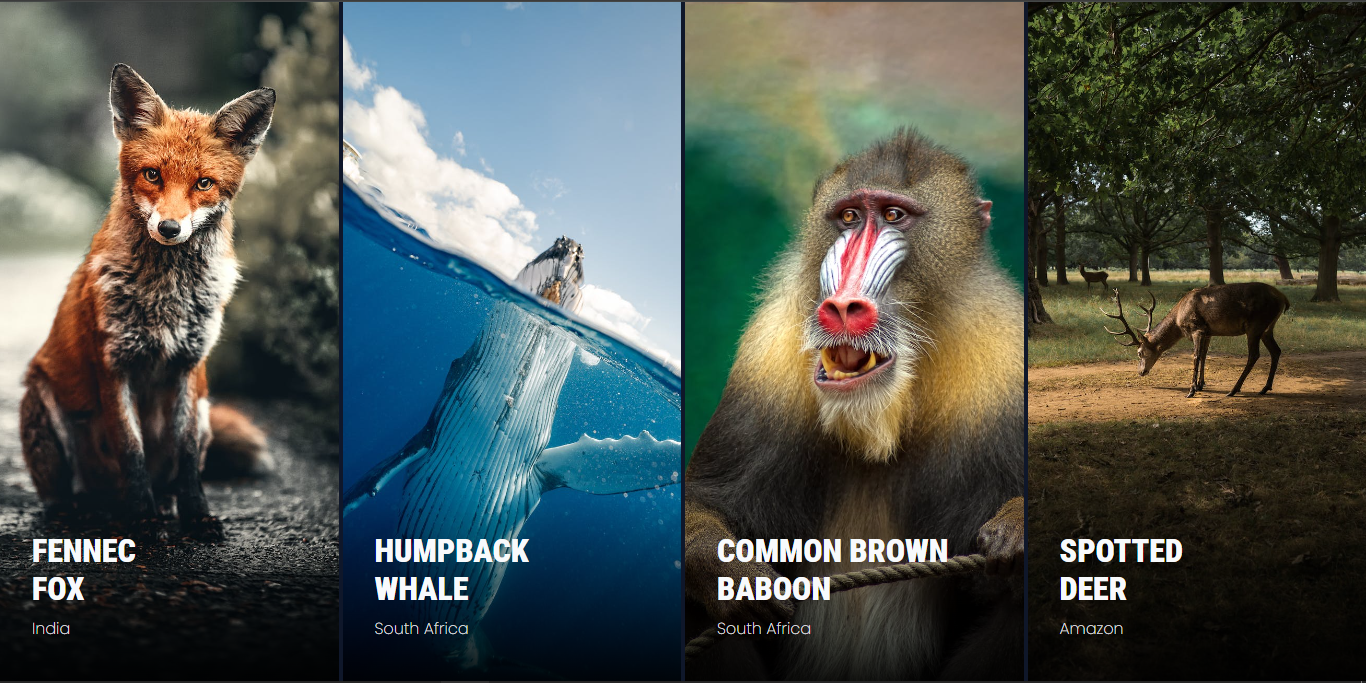
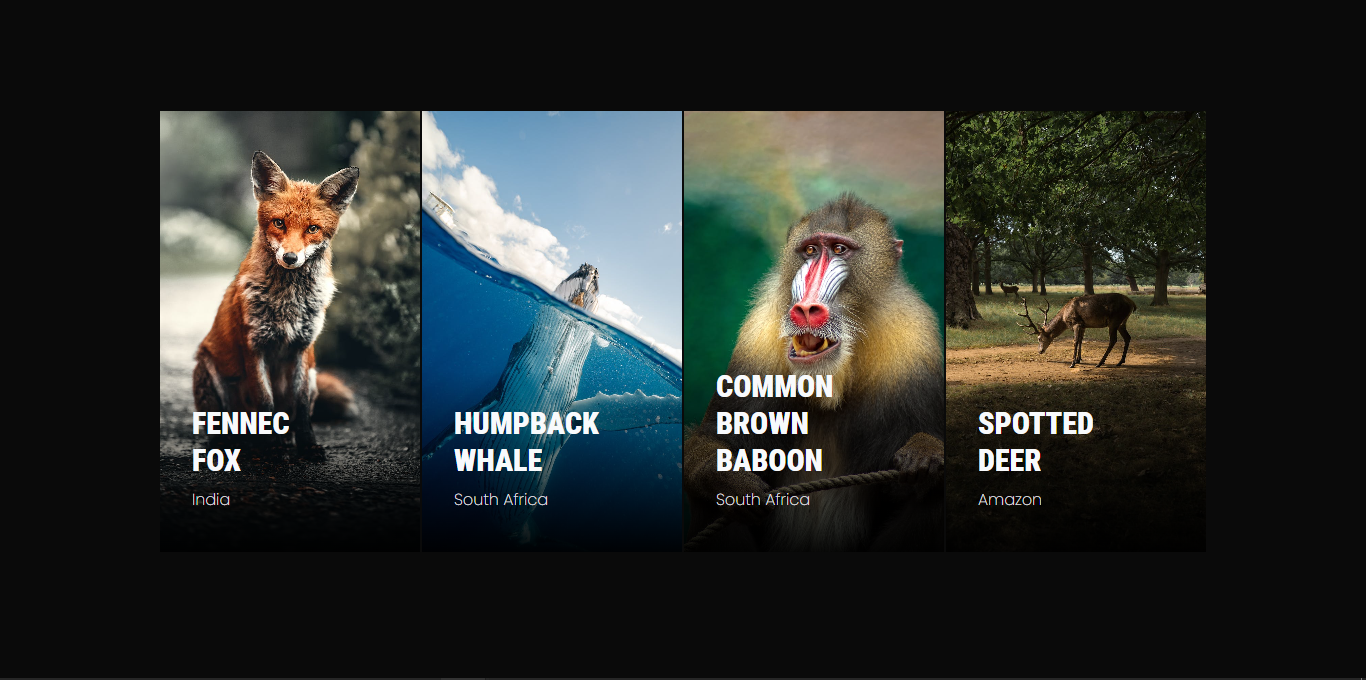
improve readme

diff --git a/styles/style.css b/styles/style.css
@@ -7,13 +7,14 @@
 
 :root {
   --light-blue: #42c1ff;
-  --slate-800: #0f172a;
+  --slate-800: #0a0a0a;
   --slate-50: #f8fafc;
   --slate-200: #e4e4e7;
 }
 body {
   background-color: var(--slate-800);
   overflow-y: hidden;
+  padding: 7rem 10rem;
 }
 
 .gallery-container {
@@ -22,17 +23,18 @@ body {
 }
 .image-wrapper {
   width: 25vw;
-  height: 100vh;
+  height: 65vh;
   position: relative;
 }
 .photo-frame {
-  height: 100vh;
+  height: 100%;
   overflow: hidden;
+  transition: transform 4s ease-in-out;
 }
 .photo-frame img.active {
   transform: scale(1.05);
   transition: all 0.4s ease-in-out;
-  filter: grayscale(100%) blur(5px);
+  filter: grayscale(100%) blur(6.5px);
 }
 .overlay {
   display: none;
@@ -47,7 +49,7 @@ body {
   display: flex;
   justify-content: center;
   align-items: center;
-   transition: all 0.4s ease-in-out;
+  transition: all 0.5s ease-in-out;
 }
 .photo-frame img {
   width: 100%;
@@ -61,11 +63,11 @@ body {
   padding: 2rem;
   width: 100%;
   background: linear-gradient(180deg, rgba(0, 0, 0, 0.01), rgba(0, 0, 0, 0.95));
-  transition: all 0.4s ease-in-out,
+  transition: all 0.4s ease-in-out;
 }
 .details.active {
   background: linear-gradient(0deg, rgba(0, 0, 0, 0.01), rgba(0, 0, 0, 0.01));
-  transition: all 0.9s ease-in-out,
+  transition: all 0.5s ease-in-out;
 }
 .details h1 {
   color: var(--slate-50);
@@ -73,12 +75,19 @@ body {
   font-optical-sizing: auto;
   font-weight: 900;
   font-style: normal;
+  font-size: 2.2vw;
   transition: all 0.3s ease-in-out;
+}
+.details.active h1,
+.details.active p {
+  transform: translateY(-18px);
+  transition: transform 0.4s ease-in-out;
 }
 .details p {
   color: var(--slate-200);
   font-family: "Poppins", sans-serif;
   font-weight: 200;
+  transform: translateY(0px);
   padding: 0.5rem 0;
   transition: all 0.3s ease-in-out;
 }
@@ -93,12 +102,18 @@ body {
 }
 .more-info span {
   color: var(--light-blue);
+  font-size: 1vw;
   font-family: "Poppins", sans-serif;
   font-weight: 400;
-  transition: all 0.4s ease-in-out,
+  transition: all 0.4s ease-in-out;
 }
 
-@media (max-width: 800px) {
+@media (max-width: 950px) {
+  .details {
+    padding: 0.6rem;
+    width: 100%;
+    transition: all 0.4s ease-in-out;
+  }
   .details h1 {
     font-size: 1rem;
   }
@@ -108,8 +123,16 @@ body {
   .details span {
     font-size: 0.5rem;
   }
+  .details.active h1,
+  .details.active p {
+    transform: translateY(-10px);
+    transition: transform 0.4s ease-in-out;
+  }
+  .more-info img {
+    width: 1rem;
+  }
 }
-@media (max-width: 600px) {
+@media (max-width: 700px) {
   .details {
     display: none;
   }

diff --git a/Challenges/stringTransform.js b/Challenges/stringTransform.js
@@ -19,6 +19,6 @@ function transformString(input) {
   return input;
 }
 
-let input = "Hello World";
+let input = "hanga";
 let output = transformString(input);
 console.log(`Output: "${output}"`); 

diff --git a/README.md b/README.md
@@ -3,9 +3,11 @@
 ![Gallery Demo](./assets/COA.PNG)
 ![Gallery Demo](./assets/COA2.PNG)
 
-Live Site URL: [COA-challenge](https://coa-challenge.vercel.app/)
+**Live Site URL:** [COA-challenge](https://coa-challenge.vercel.app/)
 
-This project presents a gallery of animal images with overlay effects on hover, designed to showcase different animals and provide additional information when the user interacts with the images.
+## Overview
+
+COA-challenge is a web application showcasing an interactive gallery of animal images. It features elegant overlay effects upon image hover, providing users with a visually engaging experience. The project aims to demonstrate the implementation of modern web design techniques and user interaction enhancements.
 
 ## Table of Contents
 
@@ -14,51 +16,75 @@ This project presents a gallery of animal images with overlay effects on hover, 
 - [Usage](#usage)
 - [Code Structure](#code-structure)
 - [Technologies](#technologies)
-- [License](#license)
+- [Solutions to Coding Challenges](#solutions-to-coding-challenges)
+
 
 ## Features
 
-- Image gallery with hover effects
-- Overlay with additional information
-- Smooth transitions
+- **Interactive Gallery:** Users can hover over images to reveal overlay effects with additional information.
+- **Smooth Transitions:** Seamless transitions enhance the user experience, providing a polished look and feel.
 
 ## Installation
+
+To run the project locally, follow these steps:
 
 1. Clone the repository:
 
    ```sh
    git clone https://github.com/yourusername/COA-challenge.git
+   ```
 
+2. Open the project directory and launch `index.html` in your preferred web browser.
 
-Usage
-Open index.html in your preferred web browser.
-Code Structure
-HTML
-The HTML file includes a gallery container with multiple image wrappers. Each image wrapper contains a photo frame with an image, an overlay, and a details section.
+## Usage
 
-CSS
-The CSS file includes styles for the gallery, photo frames, and overlay effects.
+Simply open the `index.html` file in your web browser to explore the interactive gallery.
 
-JavaScript
-The JavaScript file handles the hover effects, adding and removing the active class on the overlay.
+## Code Structure
 
-Technologies
-HTML
-CSS
-JavaScript
+The project follows a structured organization:
 
-Solutions to Coding Challenges
-Problem 1: Contiguous Subarray Sum
-Description: Given an array of integers and a target sum, determine if there exists a contiguous subarray within the array that sums up to the target.
+- **HTML:** Defines the gallery container, image wrappers, photo frames, overlays, and details sections.
+- **CSS:** Styles the gallery, photo frames, and overlay effects for a visually appealing presentation.
+- **JavaScript:** Manages hover effects by adding and removing the active class on the overlay elements.
 
-Implementation: Sliding window technique is used for an efficient solution.
+## Technologies
 
-Problem 2: String Transformation
-Description: Given a string, transform it based on certain rules depending on its length being divisible by 3, 5, or both.
+The project utilizes the following technologies:
 
-Implementation: Conditional logic is applied to reverse the string, replace characters with ASCII codes, or perform both operations based on the string's length.
+- HTML
+- CSS
+- JavaScript
 
+## Solutions to Coding Challenges
 
-License
-This project is licensed under the MIT License.
-`https://coa-challenge.vercel.app/`
+### Problem 1: Contiguous Subarray Sum
+
+- **Description:** Determines if there exists a contiguous subarray within an array that sums up to a target.
+- **Implementation:** Utilizes the sliding window technique for an efficient solution.
+
+#### Example:
+
+```javascript
+const arr = [4, 2, 7, 1, 9, 5];
+const target = 14;
+console.log(hasSubarrayWithSum(arr, target));
+//true
+```
+
+### Problem 2: String Transformation
+
+- **Description:** Transforms a string based on length divisibility by 3, 5, or both.
+- **Implementation:** Applies conditional logic to reverse the string, replace characters with ASCII codes, or perform both operations.
+
+```javascript
+let input = "Amsterdam";
+let output = transformString(input);
+console.log(`Output: "${output}"`); 
+// Output: "madretsmA"
+
+let input = "hanga";
+let output = transformString(input);
+console.log(`Output: "${output}"`); 
+//Output: "104 97 110 103 97"
+```
